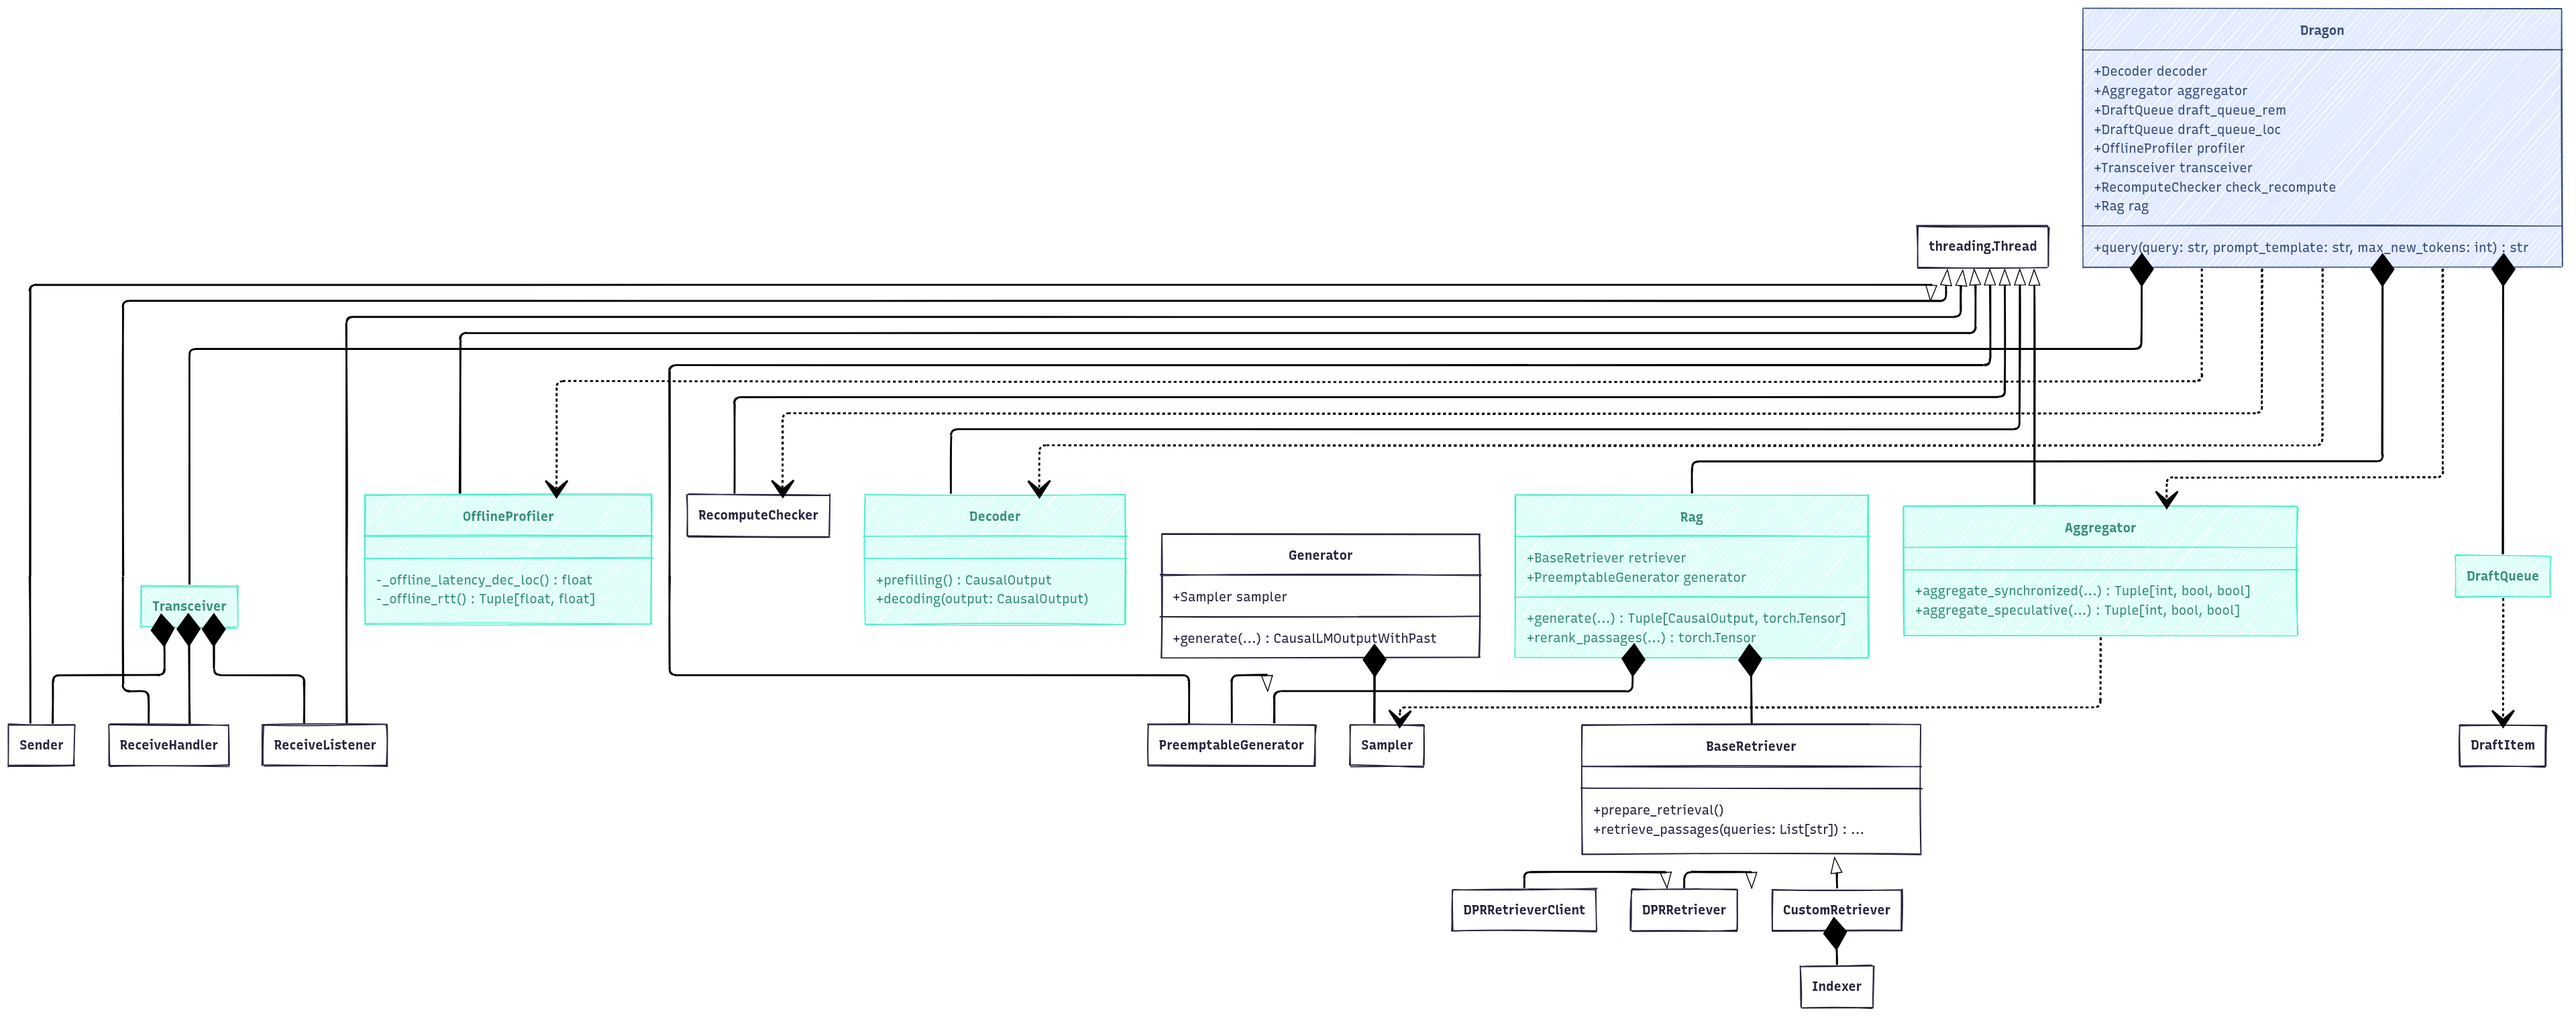
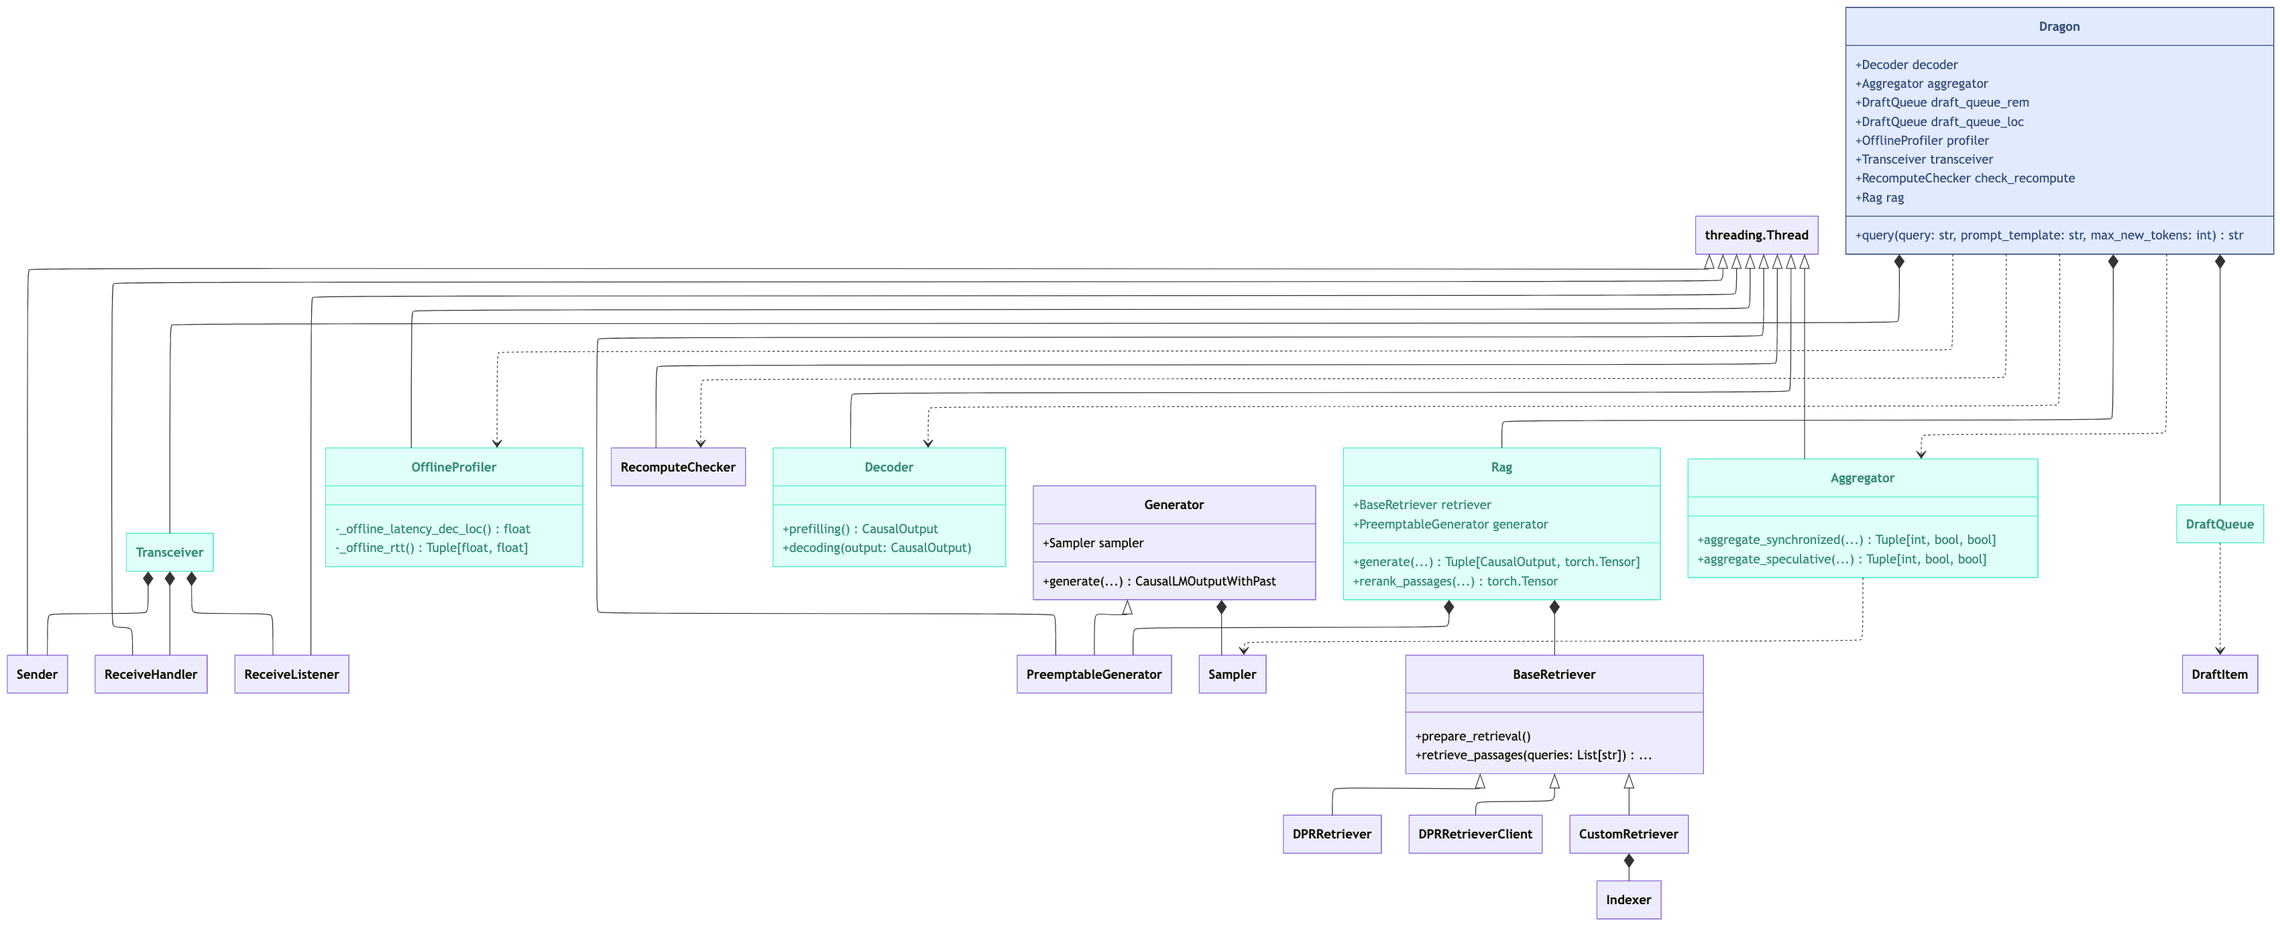
fix: typos in README.md and the Mermaid render error of overview.png

diff --git a/README.md b/README.md
@@ -1,5 +1,5 @@
 # DRAGON
-DRAGON是一个设备-云分布式RAG框架，支持个性化信息与通用知识的同时集成。
+DRAGON is a device-cloud distributed RAG framework that enables a simultaneous integration of personalized information and generic knowledge.
 
 ## Framework Overview
 ### Class Diagram
